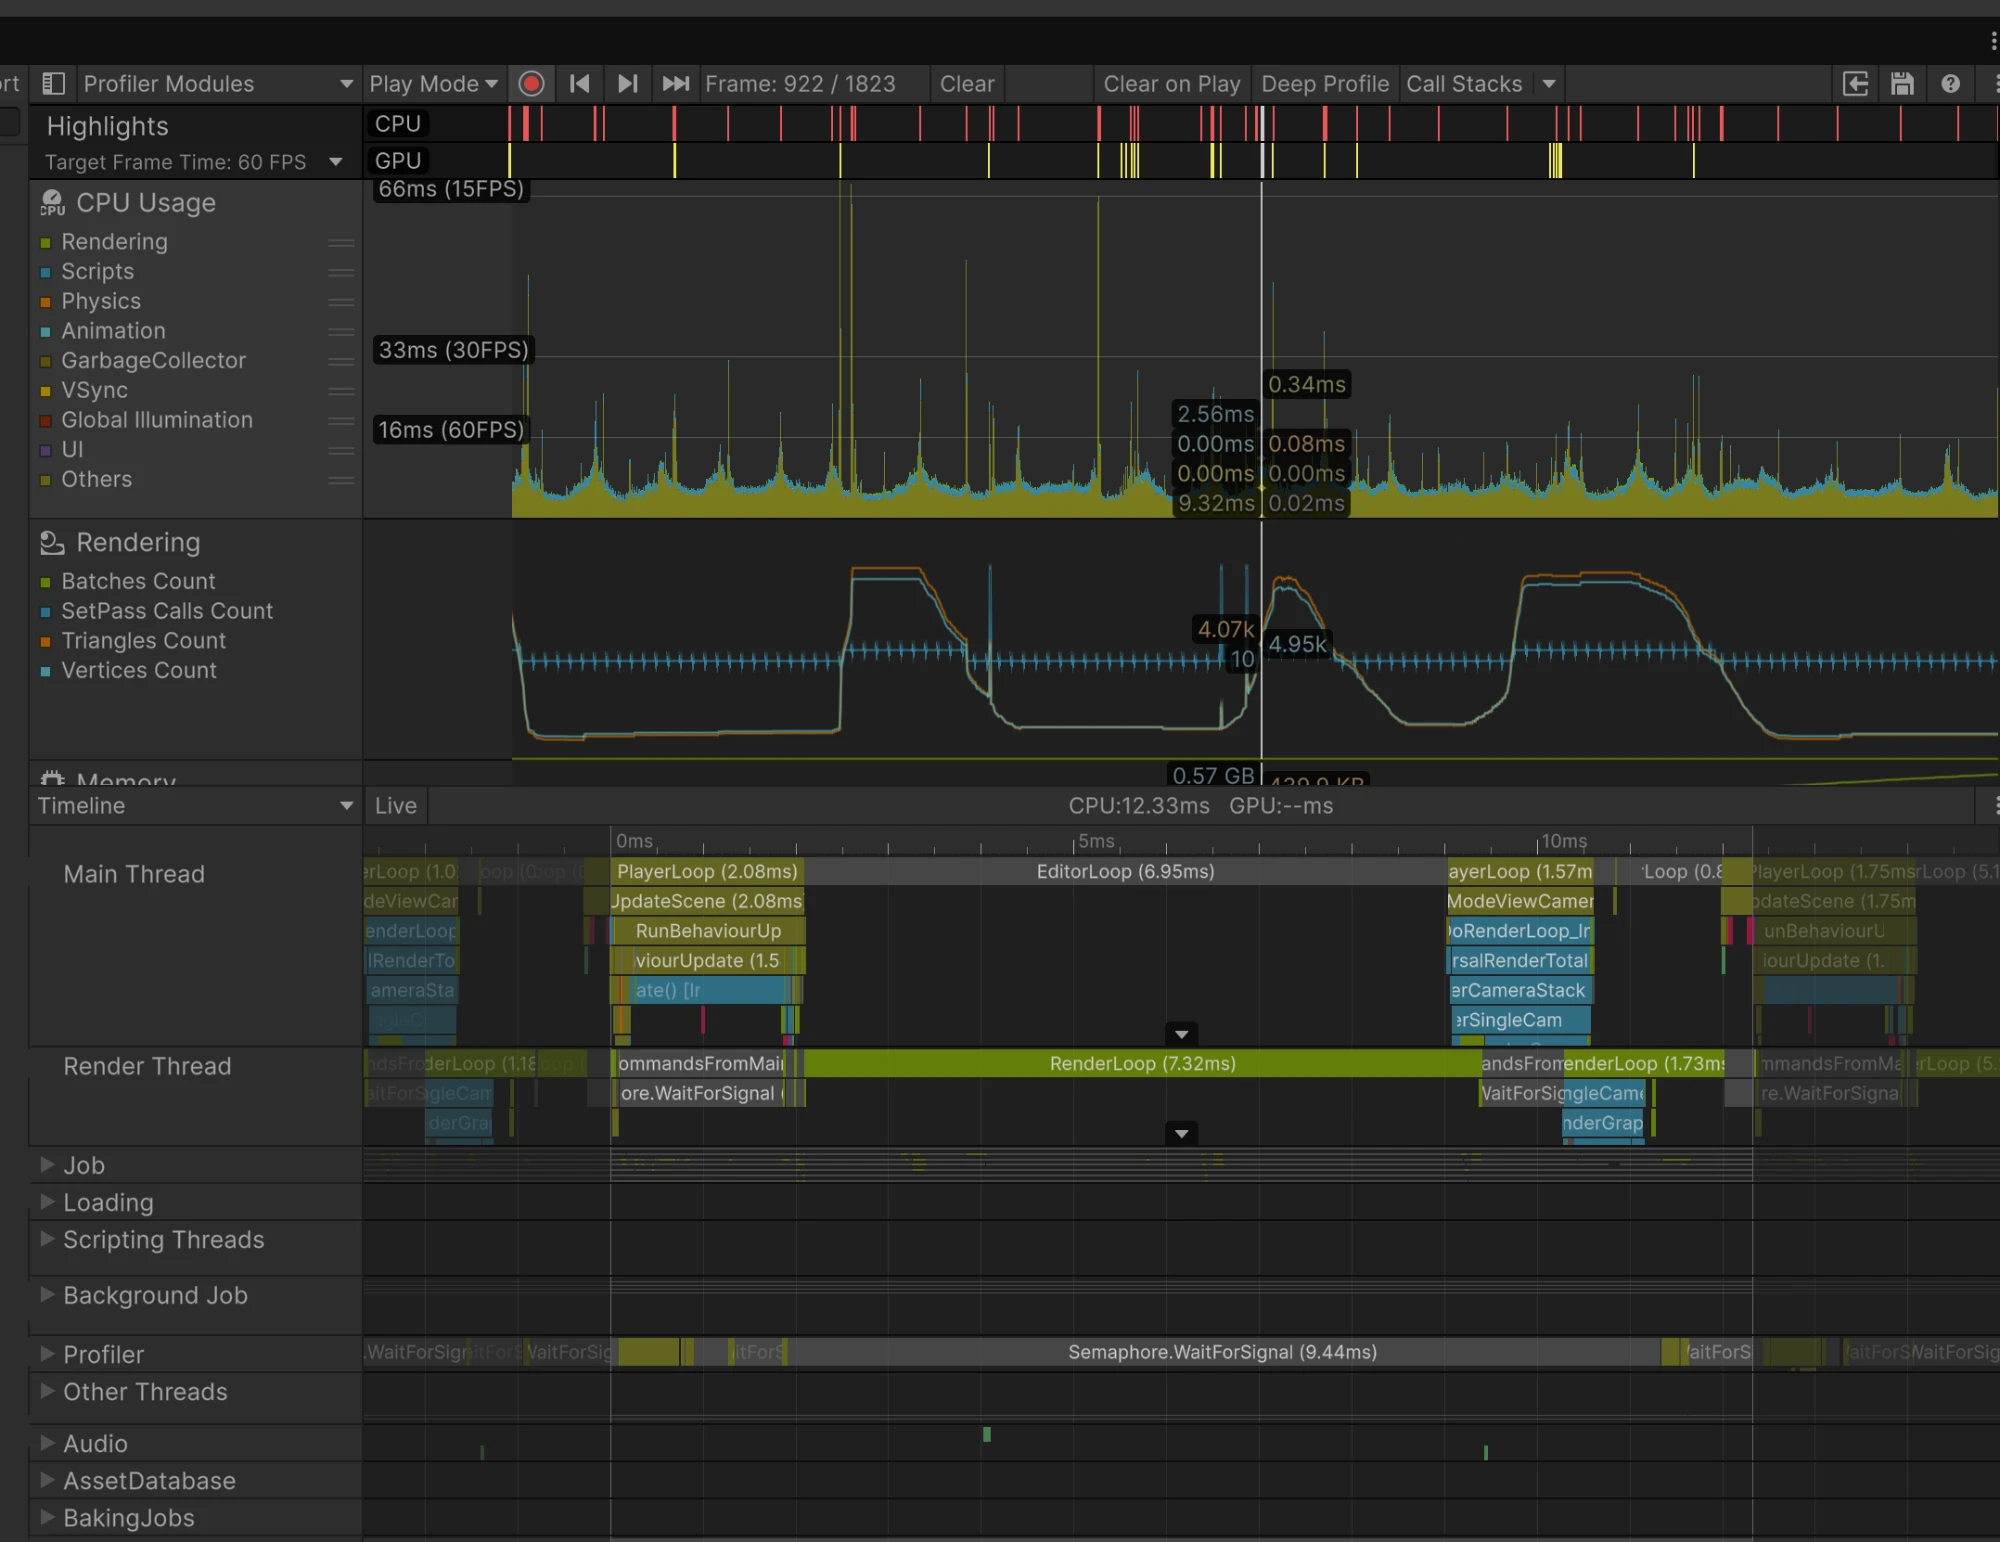
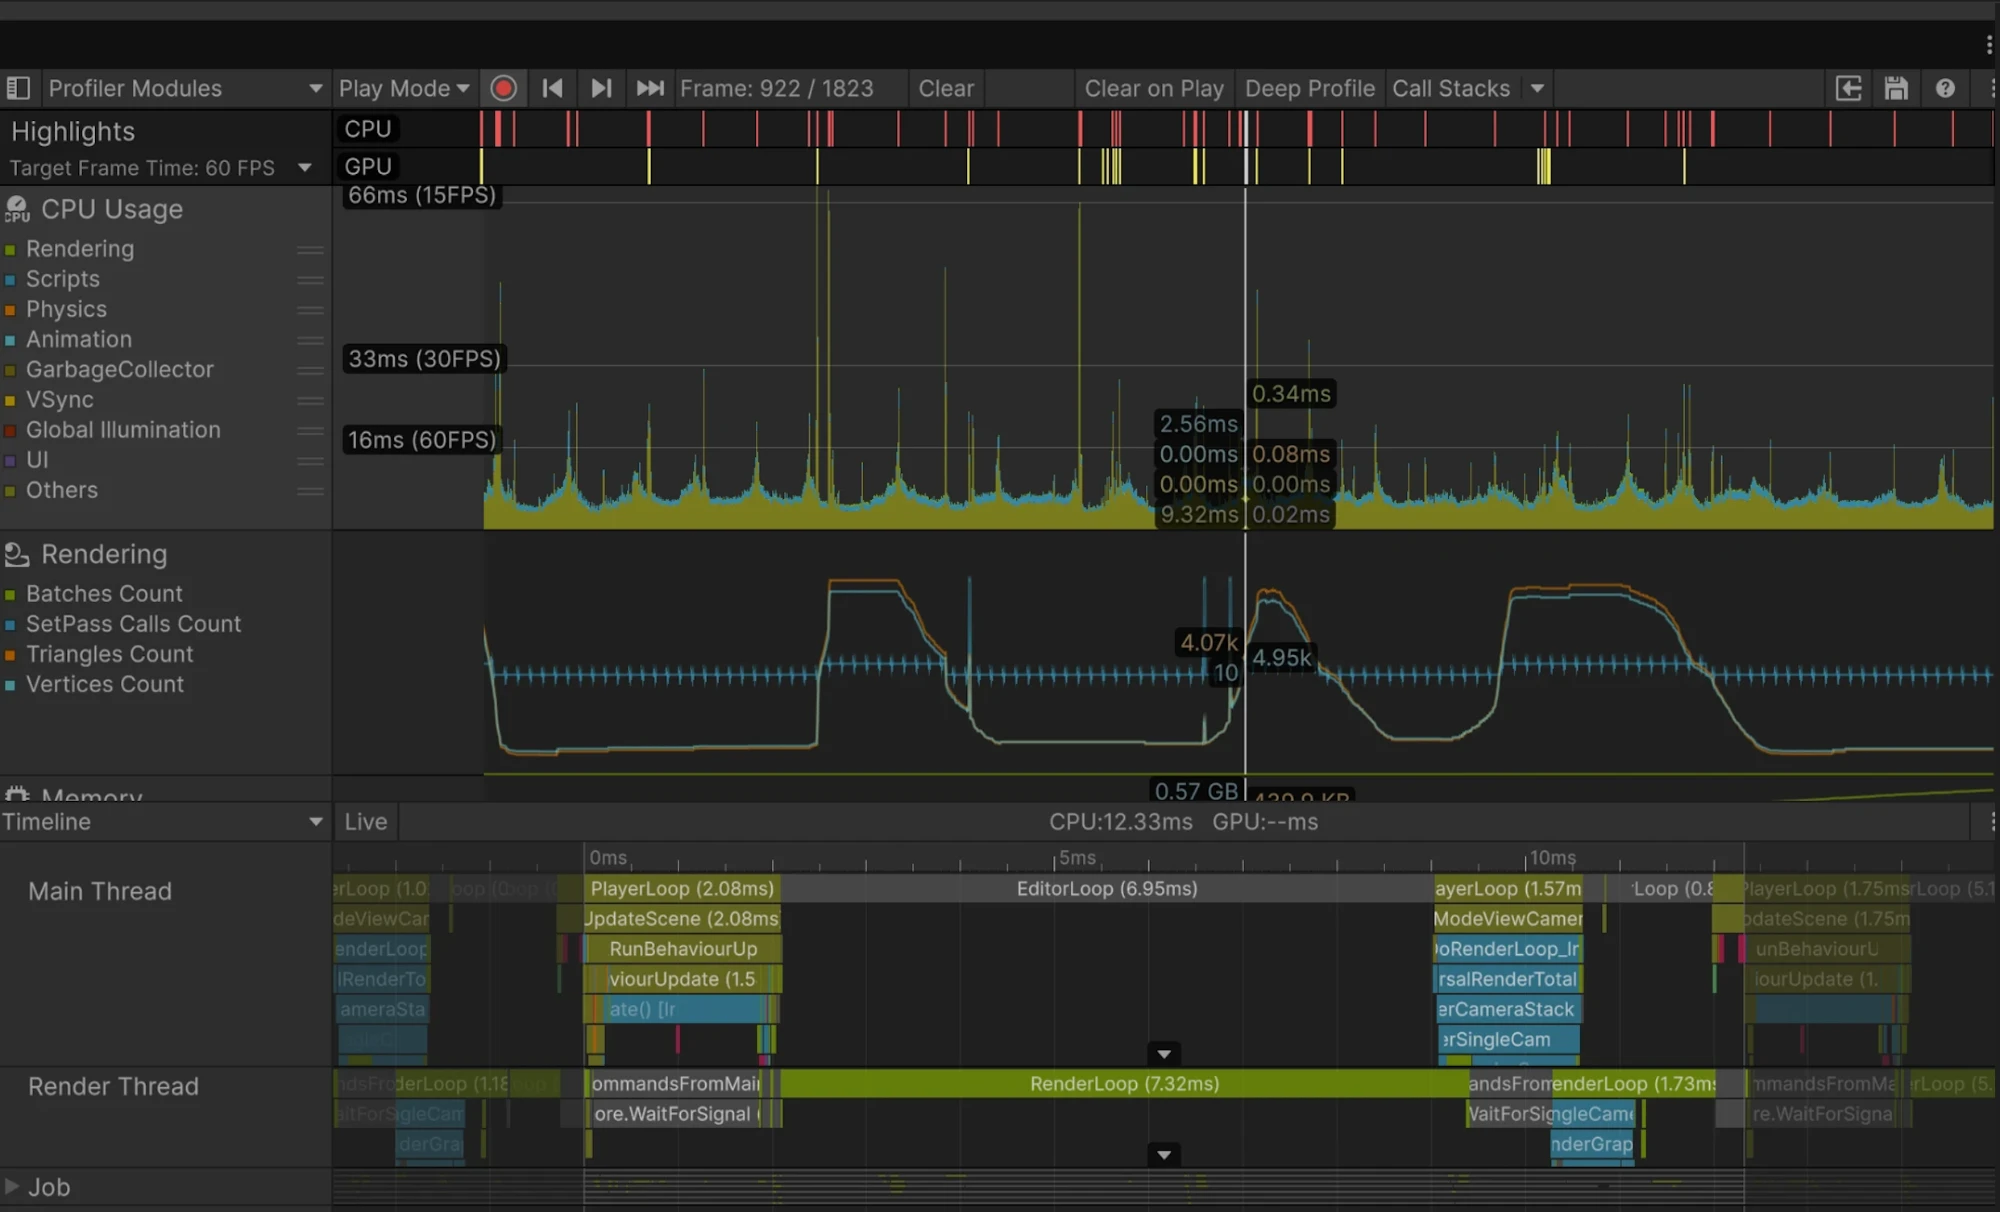
Turtle before/after side by side, Gloomy list thumbnail, autoplay clip support
Replace the Turtle after-Profiler capture and show the pair side by side.
Gloomy uses a cropped sprite as its list thumbnail. Projects can set a
silent looping MP4 clip at the top of the detail page.

Changed region(s): [[0.0, 0.0, 1.0, 1.0], [0.0, 0.7327, 0.124, 1.0], [0.0, 0.6411, 0.124, 0.7021]]

diff --git a/assets/style.css b/assets/style.css
@@ -203,3 +203,13 @@ main > p.muted { margin: 0 0 8px; }
   .resume-head { grid-template-columns: 1fr; }
   .resume-head .contact { padding-top: 0; text-align: left; }
 }
+
+/* Explicit list thumbnail (front matter `thumb`): whole image, pixel art kept crisp */
+.overview-item img.thumb, .project-cover img.thumb { object-fit: contain; background: #fff; border: 1px solid var(--line); image-rendering: pixelated; }
+/* Before/after pair inside a write-up: full width, no crop */
+.content .gallery.compare { max-width: none; margin: 24px 0; }
+.content .gallery.compare img { aspect-ratio: auto; object-fit: initial; margin: 0; }
+
+/* Autoplay clips (front matter `clip`, or {% include video.html %} in a write-up) */
+video.clip { display: block; width: 100%; max-width: 880px; height: auto; margin: 32px 0 0; background: #000; }
+.content video.clip { margin: 20px 0; }

diff --git a/_includes/video.html b/_includes/video.html
@@ -1,0 +1,12 @@
+{%- comment -%}
+Silent looping clip that plays like a moving image (no player UI).
+src: .mp4 (H.264) path, required. webm: optional smaller WebM version. poster: optional still shown before playback.
+Renders nothing if the mp4 file is missing.
+{%- endcomment -%}
+{%- assign f = site.static_files | where: "path", include.src | first -%}
+{%- if f -%}
+<video class="clip" autoplay muted loop playsinline preload="metadata"{% if include.poster %} poster="{{ include.poster | relative_url }}"{% endif %}{% if include.label %} aria-label="{{ include.label }}"{% endif %}>
+  {%- if include.webm %}<source src="{{ include.webm | relative_url }}" type="video/webm">{% endif -%}
+  <source src="{{ include.src | relative_url }}" type="video/mp4">
+</video>
+{%- endif -%}

diff --git a/_layouts/project.html b/_layouts/project.html
@@ -9,11 +9,12 @@ layout: default
     {% for h in page.highlights %}<li>{{ h | markdownify | remove: "<p>" | remove: "</p>" | strip }}</li>{% endfor %}
   </ul>
   {% endif %}
+  {% if page.clip %}{% include video.html src=page.clip webm=page.clip_webm poster=page.cover label=page.title %}{% endif %}
   {% if page.gallery %}
   <div class="gallery">
     {% for g in page.gallery %}<figure><a href="{{ g.src | relative_url }}" target="_blank" rel="noopener">{% include img.html src=g.src alt=g.caption %}</a>{% if g.caption %}<figcaption>{{ g.caption }}</figcaption>{% endif %}</figure>{% endfor %}
   </div>
-  {% else %}
+  {% elsif page.clip == nil %}
   {% include img.html src=page.cover alt=page.title class="detail-cover" %}
   {% endif %}
 

diff --git a/index.html b/index.html
@@ -23,7 +23,7 @@ layout: default
   {% assign projects = site.projects | sort: "date" | reverse %}
   {% for p in projects %}
   <a class="overview-item" href="{{ p.url | relative_url }}">
-    {% include img.html src=p.cover fallback="/assets/projects/placeholder.svg" alt="" %}
+    {% if p.thumb %}{% include img.html src=p.thumb alt="" class="thumb" %}{% else %}{% include img.html src=p.cover fallback="/assets/projects/placeholder.svg" alt="" %}{% endif %}
     <div>
       <h3>{{ p.title }} <span class="year">({{ p.date | date: "%Y" }})</span></h3>
       <p>{{ p.summary }}</p>

diff --git a/_includes/project-block.html b/_includes/project-block.html
@@ -6,5 +6,5 @@
     {% include project-meta.html p=p %}
     <a class="button" href="{{ p.url | relative_url }}">자세히 보기</a>
   </div>
-  <a class="project-cover" href="{{ p.url | relative_url }}">{% include img.html src=p.cover fallback="/assets/projects/placeholder.svg" alt="" %}</a>
+  <a class="project-cover" href="{{ p.url | relative_url }}">{% if p.thumb %}{% include img.html src=p.thumb alt="" class="thumb" %}{% else %}{% include img.html src=p.cover fallback="/assets/projects/placeholder.svg" alt="" %}{% endif %}</a>
 </article>

diff --git a/_projects/turtle.md b/_projects/turtle.md
@@ -46,15 +46,10 @@ links:
 | 물리 연산 | 37.14ms | 0ms |
 | CPU 프레임 시간 | 54.47ms (약 18FPS) | 12.33ms (약 81FPS) |
 
-{% include img.html src="/assets/projects/turtle/profiler_before.webp" alt="최적화 전 Profiler" %}
-
-최적화 전: 물고기 500마리, CPU 54.47ms. `Physics2D.FindNewContacts` 23.11ms
-{: .caption}
-
-{% include img.html src="/assets/projects/turtle/profiler_after.webp" alt="최적화 후 Profiler" %}
-
-최적화 후: CPU 12.33ms, 게임 코드(PlayerLoop) 2.08ms
-{: .caption}
+<div class="gallery compare">
+  <figure><a href="/assets/projects/turtle/profiler_before.webp" target="_blank" rel="noopener">{% include img.html src="/assets/projects/turtle/profiler_before.webp" alt="최적화 전 Profiler" %}</a><figcaption>최적화 전: 물고기 500마리, CPU 54.47ms. <code>Physics2D.FindNewContacts</code> 23.11ms</figcaption></figure>
+  <figure><a href="/assets/projects/turtle/profiler_after.webp" target="_blank" rel="noopener">{% include img.html src="/assets/projects/turtle/profiler_after.webp" alt="최적화 후 Profiler" %}</a><figcaption>최적화 후: CPU 12.33ms, 게임 코드(PlayerLoop) 2.08ms</figcaption></figure>
+</div>
 
 #### 2. 버튼 없이 한 동작에서 의도를 읽는 조작
 

diff --git a/_projects/gloomy.md b/_projects/gloomy.md
@@ -2,6 +2,7 @@
 title: "Gloomy"
 date: 2025-01-01
 cover: /assets/projects/gloomy/cover.webp
+thumb: /assets/projects/gloomy/thumb.png   # 목록(ABOUT, PORTFOLIO)용 썸네일. 없으면 cover 사용
 summary: "인조인간 '글루미'의 눈물로 키운 꽃을 마을에 심어 주민을 '정화'하는 방치형 육성 전략 시뮬레이션"
 kind: "모바일 2D 게임"
 period: "2025.01 ~ 현재"
